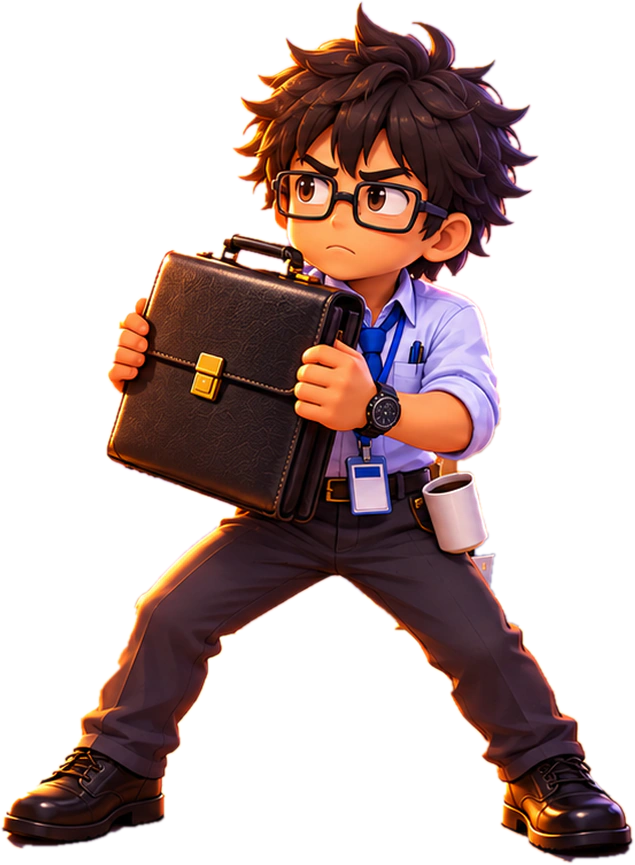
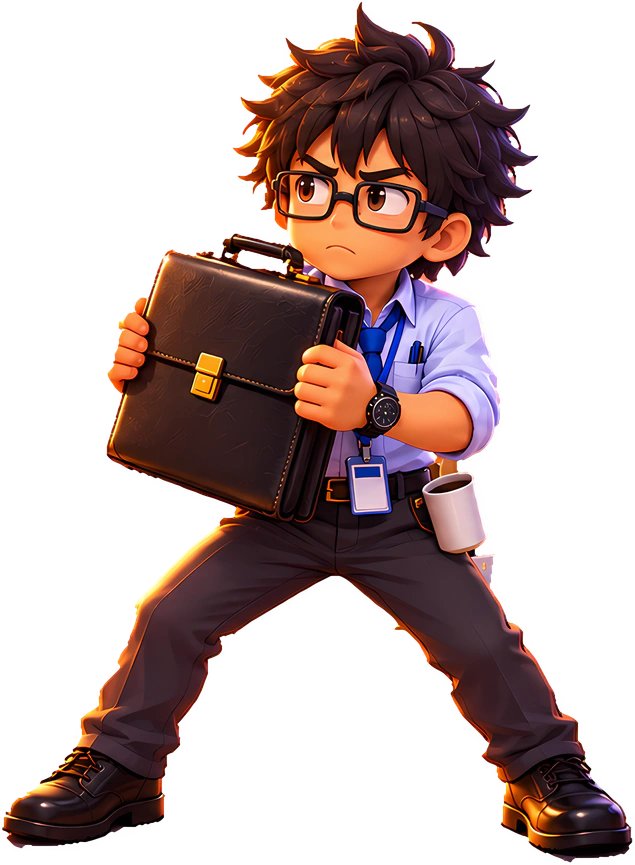
Menu: o viciado e o CLT ampliados 2x pelo Real-ESRGAN (opção B), variantes 2/3, 1x, 4/3 e 2x pela largura x DPR
As variantes do herói recortado saem todas do 2x do Real-ESRGAN x4plus-anime (E6,
NEW-20261021-ORQ-realesrgan-herois-menu): viciado 529/793/1057/1586, CLT 423/635/847/1270,
webp q95 alfa 100. A caixa de RECORTES não muda, então os pés seguem na mureta; cutoutFile
continua escolhendo pela largura mostrada x devicePixelRatio (tela 1x carrega o de 1x).

Card: NEW-20261021-ORQ-heroi-esrgan-no-ar

diff --git a/tests/client/menu-estadio.test.ts b/tests/client/menu-estadio.test.ts
@@ -252,22 +252,29 @@ test('menu-fundo-sangria: on the PC the E6 bleed is framed so the approved pictu
   assert.match(html,/<link rel="preload" href="\/art\/lite\/menu\/fundo-estadio-viciado\.webp" as="image" fetchpriority="high" media="\(orientation: landscape\) and \(min-height: 521px\)" \/>/);
 });
 
-test('menu-pes-nitidez: the hero file by the shown width x DPR, never the 2/3 copy stretched; q95 files',async()=>{
+test('menu-pes-nitidez + heroi-esrgan-no-ar: the hero file by the shown width x DPR (2/3, 1x, 4/3, 2x), q95 files',async()=>{
   for(const id of ['viciado-em-bet','clt-cansado']){
-    const cut=cutoutOf(id)!,[small,big]=cut.files;
+    const cut=cutoutOf(id)!,ws=cut.files.map(([w])=>w);
+    assert.deepEqual(ws,[2/3,1,4/3,2].map(k=>Math.round(cut.w*k)),`${id}: the box at 2/3, 1x, 4/3 and 2x`);
+    const [small,one,,big]=cut.files;
     assert.equal(cutoutFile(cut,small[0]-10,1),small[1],`${id}: small window, the small file`);
-    assert.equal(cutoutFile(cut,small[0]+1,1),big[1],`${id}: over the small one, the big one`);
-    assert.equal(cutoutFile(cut,small[0]*.6,2),big[1],`${id}: HiDPI counts device pixels`);
+    assert.equal(cutoutFile(cut,small[0]+1,1),one[1],`${id}: over the small one, the 1x one (not the 2x)`);
+    assert.equal(cutoutFile(cut,cut.w*.8,2),big[1],`${id}: HiDPI counts device pixels`);
+    assert.equal(cutoutFile(cut,cut.w*.9,1.25),cut.files[2][1],`${id}: Windows at 125%, the 4/3 one`);
     assert.equal(cutoutFile(cut,big[0]*2,1),big[1],`${id}: bigger than every file, the biggest`);
-    const meta=await sharp(publicFile(big[1])).metadata();
-    assert.deepEqual([meta.width,meta.height],[cut.w,cut.h],`${id}: the full-size file is the box at 1x, never upscaled`);
+    const meta=await sharp(publicFile(one[1])).metadata();
+    assert.deepEqual([meta.width,meta.height],[cut.w,cut.h],`${id}: the 1x file is the box`);
+    const top=await sharp(publicFile(big[1])).metadata();
+    assert.deepEqual([top.width,top.height],[cut.w*2,cut.h*2],`${id}: the 2x file is Real-ESRGAN's, the box twice`);
   }
-  // The user's 1590x903 (DPR 1): the viciado shows ~657 px wide, so the full-size file, at ~0.83x (never above 1x).
+  // The user's 1590x903 (DPR 1): the viciado shows ~657 px wide, so the 1x file; the 2x one only where it is needed.
   const box={w:1590,h:903},cut=cutoutOf('viciado-em-bet')!,fit=fitCutout(box,placeCutout(box,STADIUM.bleed,cut)!);
   assert.equal(cutoutFile(cut,fit.w,1),'/art/menu/heroi/viciado-em-bet-793.webp');assert.ok(fit.w<=793);
   assert.match(main,/const file=cutoutFile\(cut,spot\.w,devicePixelRatio\);/);
   assert.ok(!/cutoutImg\.srcset/.test(main),'no srcset: the choice is the one above');
-  assert.ok(readFileSync(new URL('../../scripts/menu-arte.mjs',import.meta.url),'utf8').includes('const HERO_WEBP={quality:95,alphaQuality:100,smartSubsample:true,effort:6};'));
+  const arte=readFileSync(new URL('../../scripts/menu-arte.mjs',import.meta.url),'utf8');
+  assert.ok(arte.includes('const HERO_WEBP={quality:95,alphaQuality:100,smartSubsample:true,effort:6};'));
+  assert.ok(arte.includes("esrgan:'viciado-2x-x4plus-anime.png'")&&arte.includes("esrgan:'clt-2x-x4plus-anime.png'"));
 });
 
 test('menu-arte-viciado: the confirm button is E7\'s art (9-slice pill, star, burst), the text stays HTML, every hero',async()=>{

diff --git a/src/client/ui/stadium.ts b/src/client/ui/stadium.ts
@@ -61,7 +61,10 @@ export function placeOnBar(box:{w:number;h:number},art:StadiumArt,atX:number,pos
 export interface StadiumCutout {
   /** The box in the whole 1920x1080 picture, px. */
   x:number;y:number;w:number;h:number;
-  /** Width → file (the full one and a 2/3 copy). */
+  /**
+   * Width → file: the box at 2/3, 1x, 4/3 and 2x, all from the 2x Real-ESRGAN enlargement (heroi-esrgan-no-ar);
+   * cutoutFile picks one by the shown width × DPR, so a 1x screen never loads the 2x one.
+   */
   files:readonly (readonly [number,string])[];
   /**
    * The hero's own background (NEW-20261021-ORQ-tela-clt-pose2), drawn without him: a bleed with STADIUM.bleed's
@@ -70,9 +73,11 @@ export interface StadiumCutout {
   fundo?:string;
 }
 export const RECORTES:Readonly<Record<string,StadiumCutout>>=Object.freeze({
-  'viciado-em-bet':{x:953,y:19,w:793,h:1058,files:[[529,'/art/menu/heroi/viciado-em-bet-529.webp'],[793,'/art/menu/heroi/viciado-em-bet-793.webp']]},
+  'viciado-em-bet':{x:953,y:19,w:793,h:1058,files:[[529,'/art/menu/heroi/viciado-em-bet-529.webp'],[793,'/art/menu/heroi/viciado-em-bet-793.webp'],
+    [1057,'/art/menu/heroi/viciado-em-bet-1057.webp'],[1586,'/art/menu/heroi/viciado-em-bet-1586.webp']]},
   // The user's pose 2 (21/10), cut out of its own scene (the sunset light already on him), on the paperwork mountain.
-  'clt-cansado':{x:792,y:73,w:635,h:865,files:[[423,'/art/menu/heroi/clt-cansado-423.webp'],[635,'/art/menu/heroi/clt-cansado-635.webp']],
+  'clt-cansado':{x:792,y:73,w:635,h:865,files:[[423,'/art/menu/heroi/clt-cansado-423.webp'],[635,'/art/menu/heroi/clt-cansado-635.webp'],
+    [847,'/art/menu/heroi/clt-cansado-847.webp'],[1270,'/art/menu/heroi/clt-cansado-1270.webp']],
     fundo:'/art/lite/menu/fundo-clt-cansado.webp'},
 });
 /** Where the cutout stands in for the dance: the PC (the wide picture, taller than a phone on its side). */
